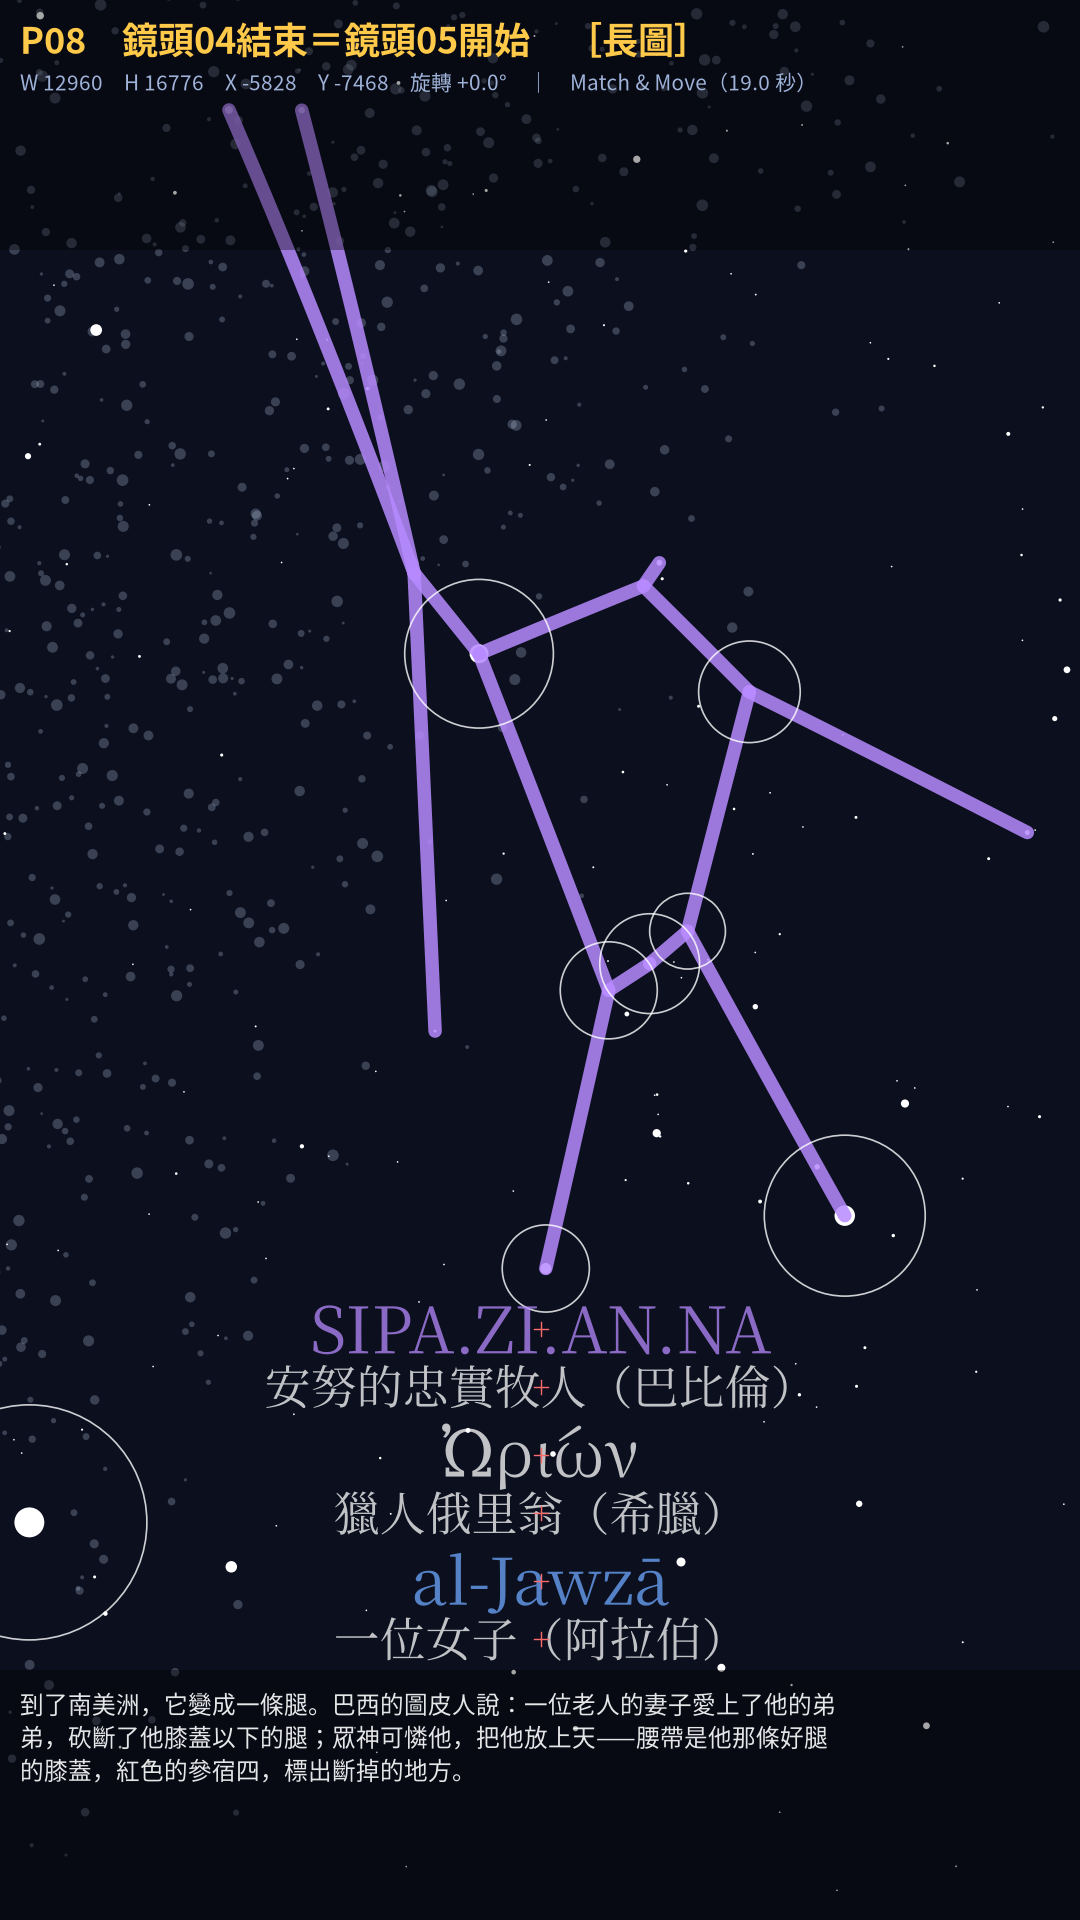
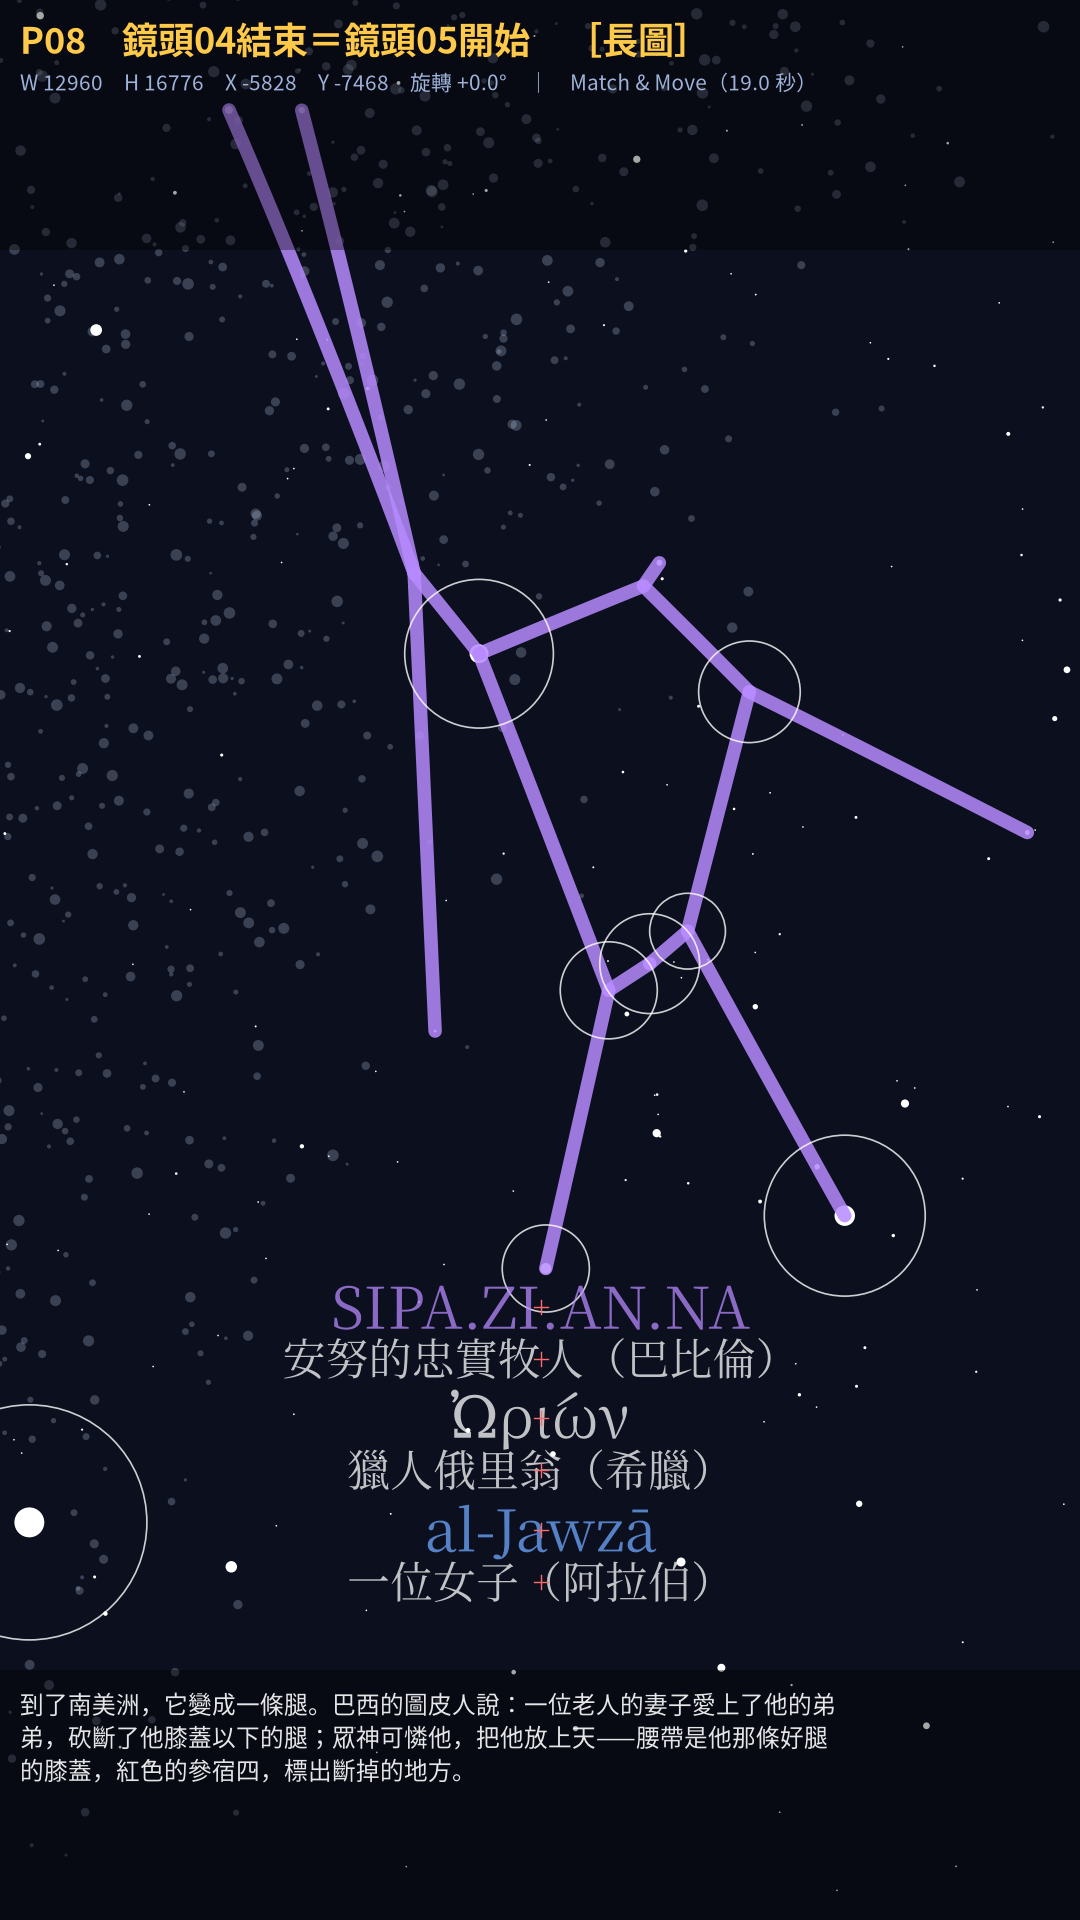
X-02 獵戶環球：Canva 建置完成＋逐字稿 Canva 製作段＋節目表狀態
- Canva「X-02 全世界都認得的三顆星」第 1–36 頁建好：開場、33 頁長圖鏡頭（原生標籤、旁白備註）、
  概念圖定格頁（C-X02-01～06）、下集見（納瓦荷）、追蹤
- QA 修正：開場末行重排；第 11 頁洛科諾標籤上移避開亮星；下集見背景上移不壓人形
- 巨人標籤收緊到山的上方後重跑大畫布（標籤層、逐頁標籤座標、鏡頭牆）
- 逐字稿補「Canva 製作」段（頁序、概念圖頁、與製作表差異、手動待辦、本集用得到的參考頁）
- 節目表 X-02 狀態改為 Canva 完成

Claude-Session: https://claude.ai/code/session_01StZzE6tWpXcy8oYxpE6GNa

Changed region(s): [[0.2444, 0.6562, 0.7333, 0.875]]

diff --git a/02_製作流程SOP/make_x02_v4.py b/02_製作流程SOP/make_x02_v4.py
@@ -243,9 +243,9 @@ def build():
     # ── 巨人 ──
     LB_SAH = pair(BELT, "Sah", -10.5, -17.0, 2.0, 1.25, 2.9, key="埃-Sah")
     # 三對疊在人形正下方（左側被巴比倫牧人的長線佔滿）
-    LB_GIANT = (pair(BELT, "SIPA.ZI.AN.NA", -3.0, -11.0, 1.05, 0.75, 1.6) +
-                pair(BELT, "Ὠρίων", -3.0, -14.5, 1.05, 0.75, 1.6) +
-                pair(BELT, "al-Jawzā", -3.0, -18.0, 1.05, 0.75, 1.6))
+    LB_GIANT = (pair(BELT, "SIPA.ZI.AN.NA", -3.0, -10.3, 0.95, 0.7, 1.45) +   # 最下一行要在山（Canva 模板 Y 1620）之上
+                pair(BELT, "Ὠρίων", -3.0, -13.4, 0.95, 0.7, 1.45) +
+                pair(BELT, "al-Jawzā", -3.0, -16.5, 0.95, 0.7, 1.45))
     # ── 一條腿 ──
     LB_TUPI = pair(BELT, "Tuivaé", 2.0, -12.5, 1.9, 1.3, 2.8)
     LB_LOKO = (pair(BELT, "Mabukuli", 2.0, -6.0, 1.5, 0.9, 2.2) +

diff --git a/04_腳本庫/X-02-獵戶環球全世界都認得的三顆星-逐字稿-v1.md b/04_腳本庫/X-02-獵戶環球全世界都認得的三顆星-逐字稿-v1.md
@@ -114,6 +114,45 @@
 
 ## Canva 製作
 
+- Canva 設計檔「X-02 全世界都認得的三顆星」（DAHWtE3JZlQ，從韓國那集複製）。依 `X-02_Canva逐頁製作表.md` 排頁（`X-02_對位參考/` 是逐頁描圖紙），Canva 頁碼＝製作表頁碼＋1（第 1 頁是開場）。
+- 全片都在長圖上（腰帶就在天赤道上），沒有盤鏡頭，所以**沒有同框換檔的硬切頁**；頁與頁之間一律 Match & Move。
+- 原生標籤照 `X-02_逐頁標籤座標.csv` 打字（各文化原名＋中譯兩行；第 9 頁是「巨人」三組：巴比倫、希臘、阿拉伯；埃及的 Sah 在第 8 頁）。山的上緣在 Y≈1622，所有標籤都放在山的上方。
+- 下集見端卡寫「納瓦荷：只在冬天說的星星故事」（A-16，2027/1/8）。
+- **已建好（2026/10/09）**，頁序：
+  - 第 1 頁：開場。背景是長圖 L1–L3＋獵戶（定位）＋腰帶（與第 2 頁同位置），字卡「同一片星空，全世界都認得——這三顆星；元旦，跟著它們——繞地球一圈。」
+  - 第 2–34 頁：製作表第 1–33 頁。每頁都有天空圖層、原生標籤，備註裡寫了旁白。
+  - 第 35 頁：下集見。背景是長圖的納瓦荷「第一個瘦長的人」（藍）：下一集的主角。
+  - 第 36 頁：追蹤。背景是長圖 L1–L3（RA 32°、dec +8° 一帶，文字底下的亮星最少）。
+- 定格頁的概念圖：
+  - 第 4–6 頁：C-X02-01 正東升起，三層（北方、台北、南方）。
+  - 第 13–15 頁：C-X02-02 一條腿，三層（圖皮、洛科諾、Tikuna）。
+  - 第 20–22 頁：C-X02-03 三地的火，三層（澳洲、馬雅、阿茲特克）。
+  - 第 25 頁：C-X02-05「腰帶的名字」圖卡，滿版。
+  - 第 28–29 頁：C-X02-04 年輕的巨星，兩層（亮度、年齡）。
+  - 第 32 頁：C-X02-06「今晚往東南東看」圖卡，滿版。
+  - 分層的概念圖底下墊一層 75% 黑的圓角框。
+- 跟製作表不一樣的地方，以 Canva 為準（製作表沒有跟著改）：
+  - 第 11 頁（鏡頭06結束＝鏡頭07開始）：「Mabukuli／沒有大腿的人（洛科諾）」整組往上移約 80 px。原本的中譯壓在一顆亮星上。
+  - 第 35 頁（下集見）：背景比鏡頭14迄格上移 224 px，讓「下集見」和副標落在人形下方，不壓連線；副標水平置中。
+  - 第 1 頁：最後一行「——繞地球一圈。」比模板原本的字長，破折號、主句、句號重新排開，不再疊在一起。
+- 還要手動處理：
+  - **字型**：原生標籤目前是 Canva 預設字型，請整批換成品牌字（筑紫Aオールド明朝）。換完順便確認「參宿一／二／三／四／七」的「參」是正體字形，不是「参」。
+  - **轉場**：Canva API 不能設轉場。
+    - 全部設 Match & Move（本集沒有換檔頁）。
+    - 概念圖頁的時間要跟旁白對齊。
+  - **多餘的頁**：Canva API 不能刪頁。
+    - 第 37–46 頁是韓國那集沒用到的天空頁，請刪除。
+    - 第 47–74 頁是各文化的參考文獻。本集用得到的：
+      - 第 62 頁：中國（Sun & Kistemaker《The Chinese Sky during the Han》）。
+      - 第 63–64 頁：埃及（〈Three archaic Egyptian constellations used as seasonal markers?〉、Remler《Egyptian Mythology A to Z》、Dendera）。
+      - 第 67 頁：卡米拉羅伊（Robert Fuller〈Astronomy of the Kamilaroi and Euahlayi peoples〉）。
+      - 第 68 頁：納瓦荷（The Navajo Nation）、Allen《Star Names》。
+      - 第 73–74 頁：圖皮（Cardoso 2007、Afonso〈The Brazilian Indigenous Constellations〉）。第 74 頁的標題寫成「製作團隊 Our team」，內容其實是參考文獻，要留的話請把標題改成「參考文獻 References」。
+      - 這幾頁都混著其他文化的文獻；要做片尾參考頁的話，留這幾頁、刪掉其他行。其餘參考頁可以刪。
+      - 本集另外引用、模板裡沒有的出處（Faulkner《Pyramid Texts》、Hunger & Pingree《MUL.APIN》、Aratus、Sahagún《Florentine Codex》、Childrey《Star Trails Navajo》）在首留言裡。
+    - 第 75 頁是製作團隊／鳴謝頁，可以留作片尾。
+    - 第 76–83 頁是舊模板頁（全天星圖、四象二十八宿等），請刪除。
+
 ---
 
 ## Caption 建議
